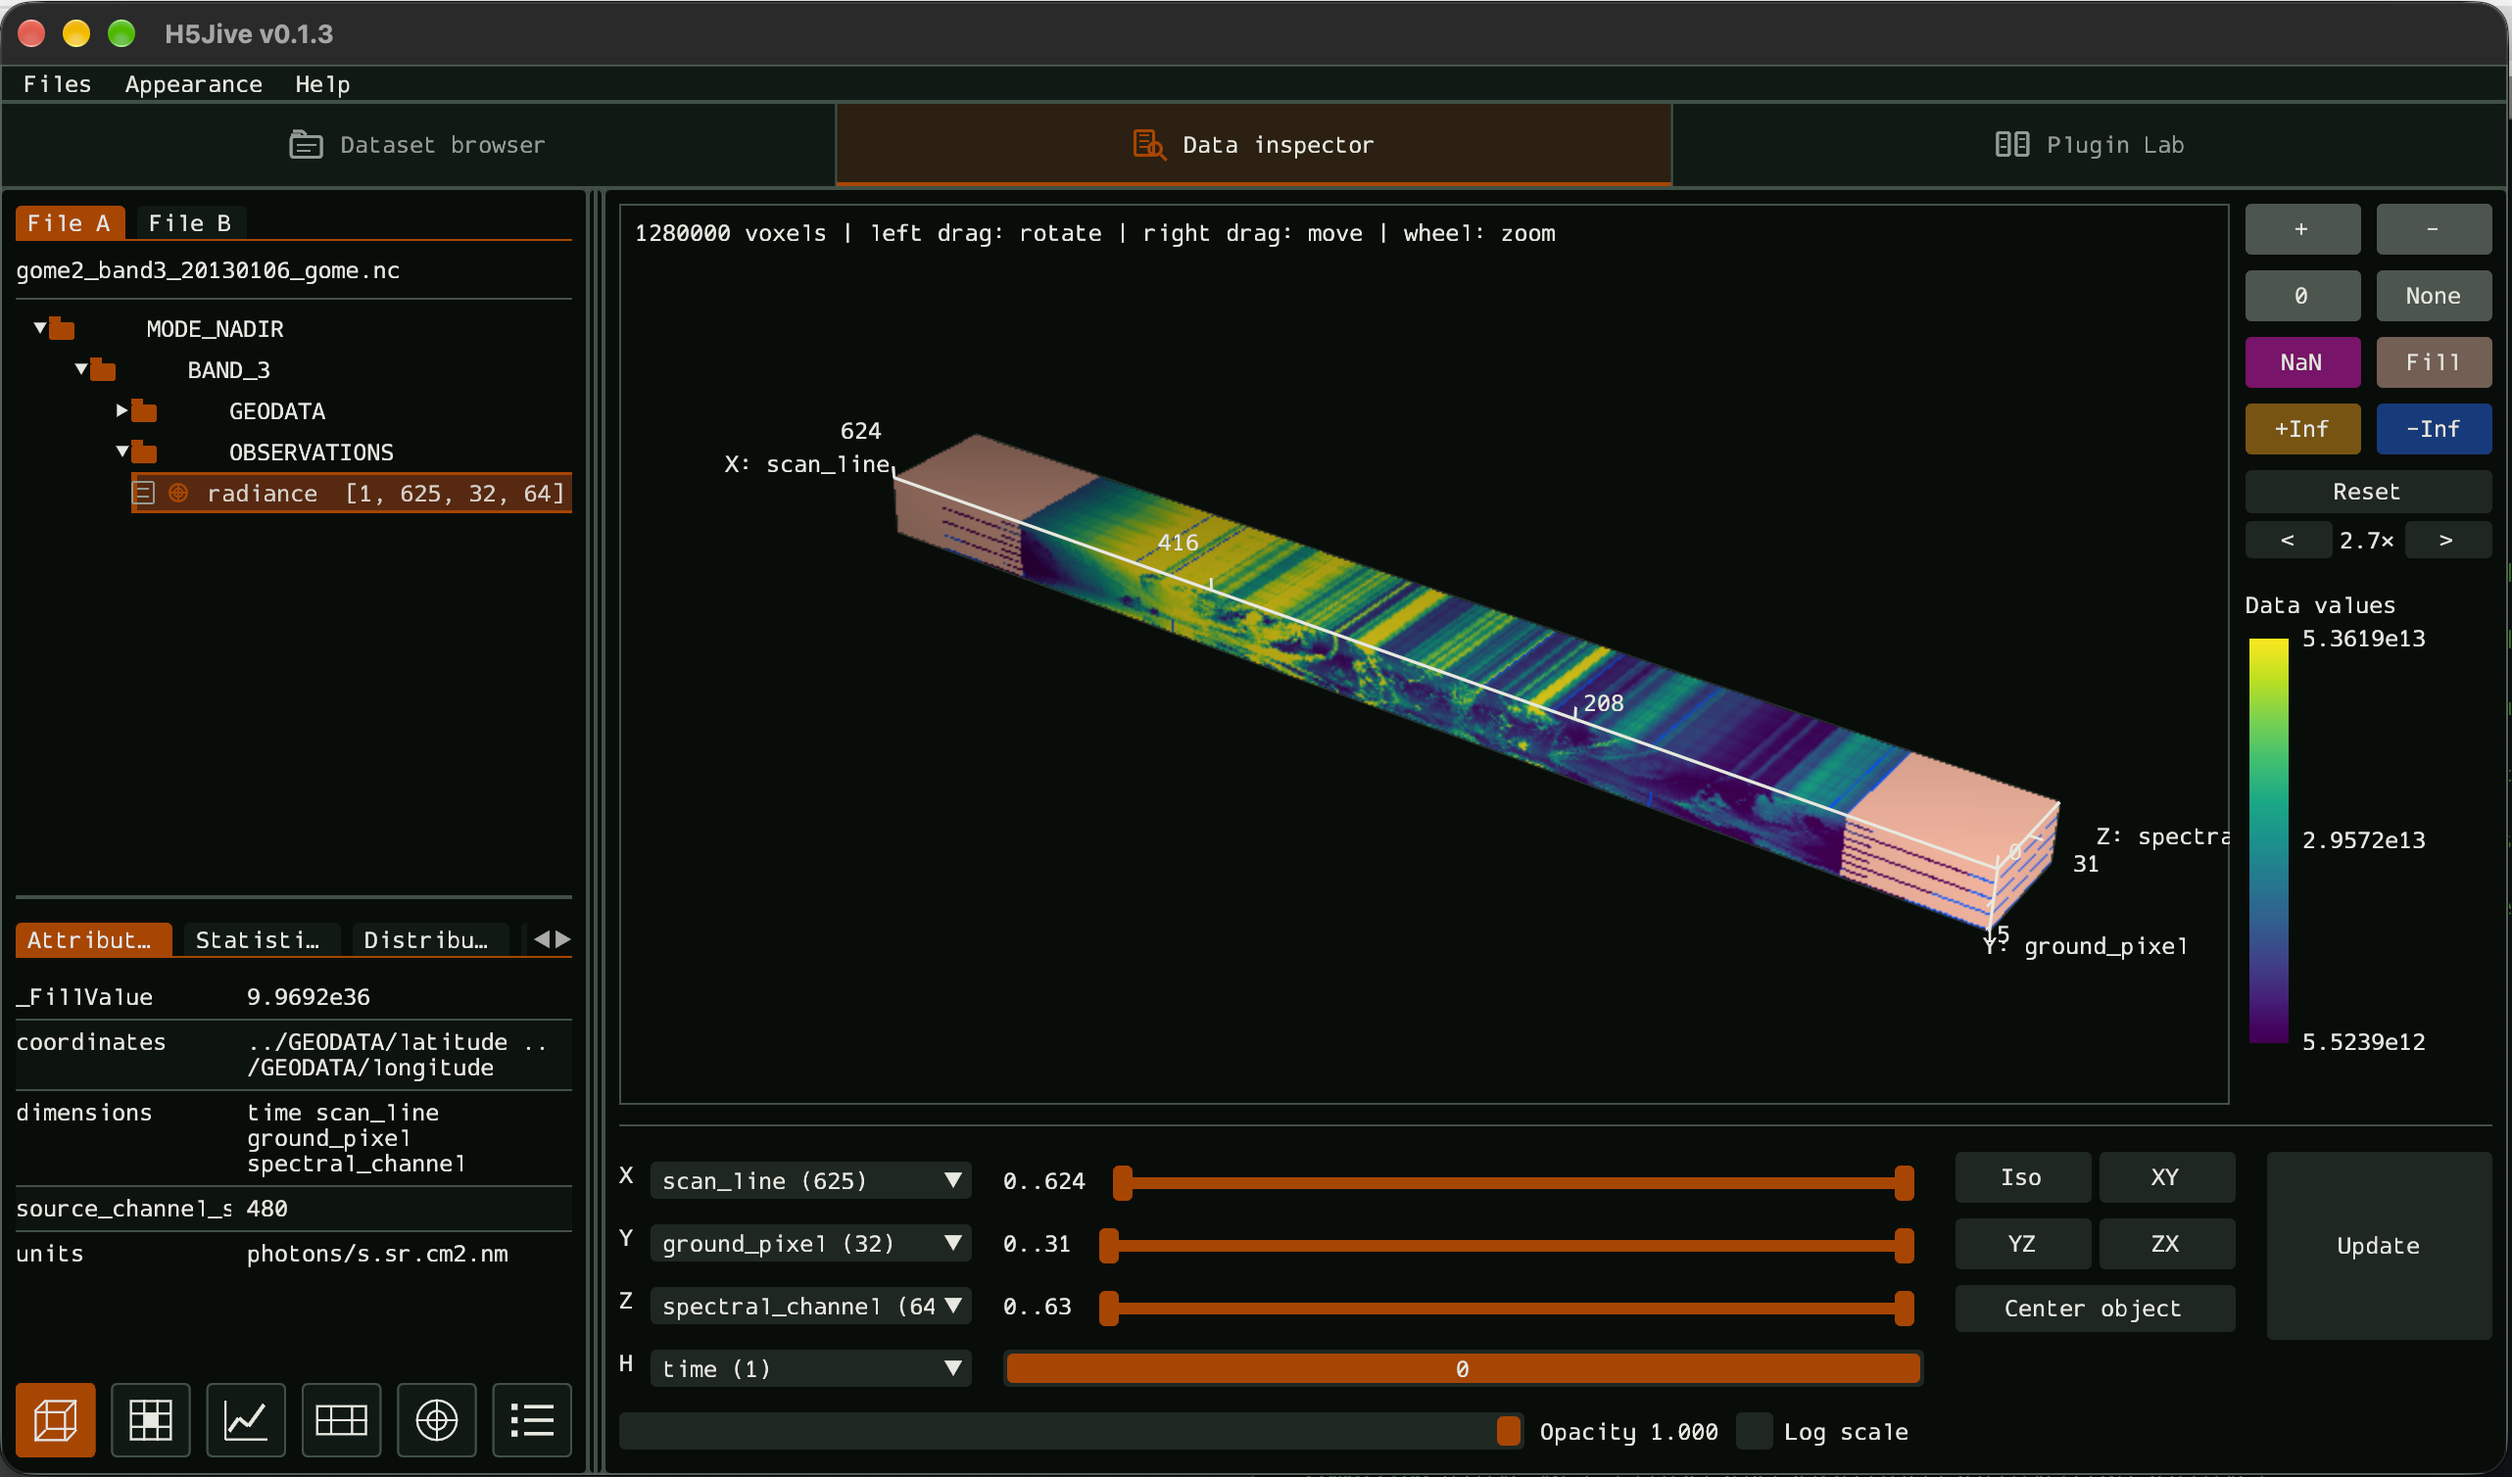
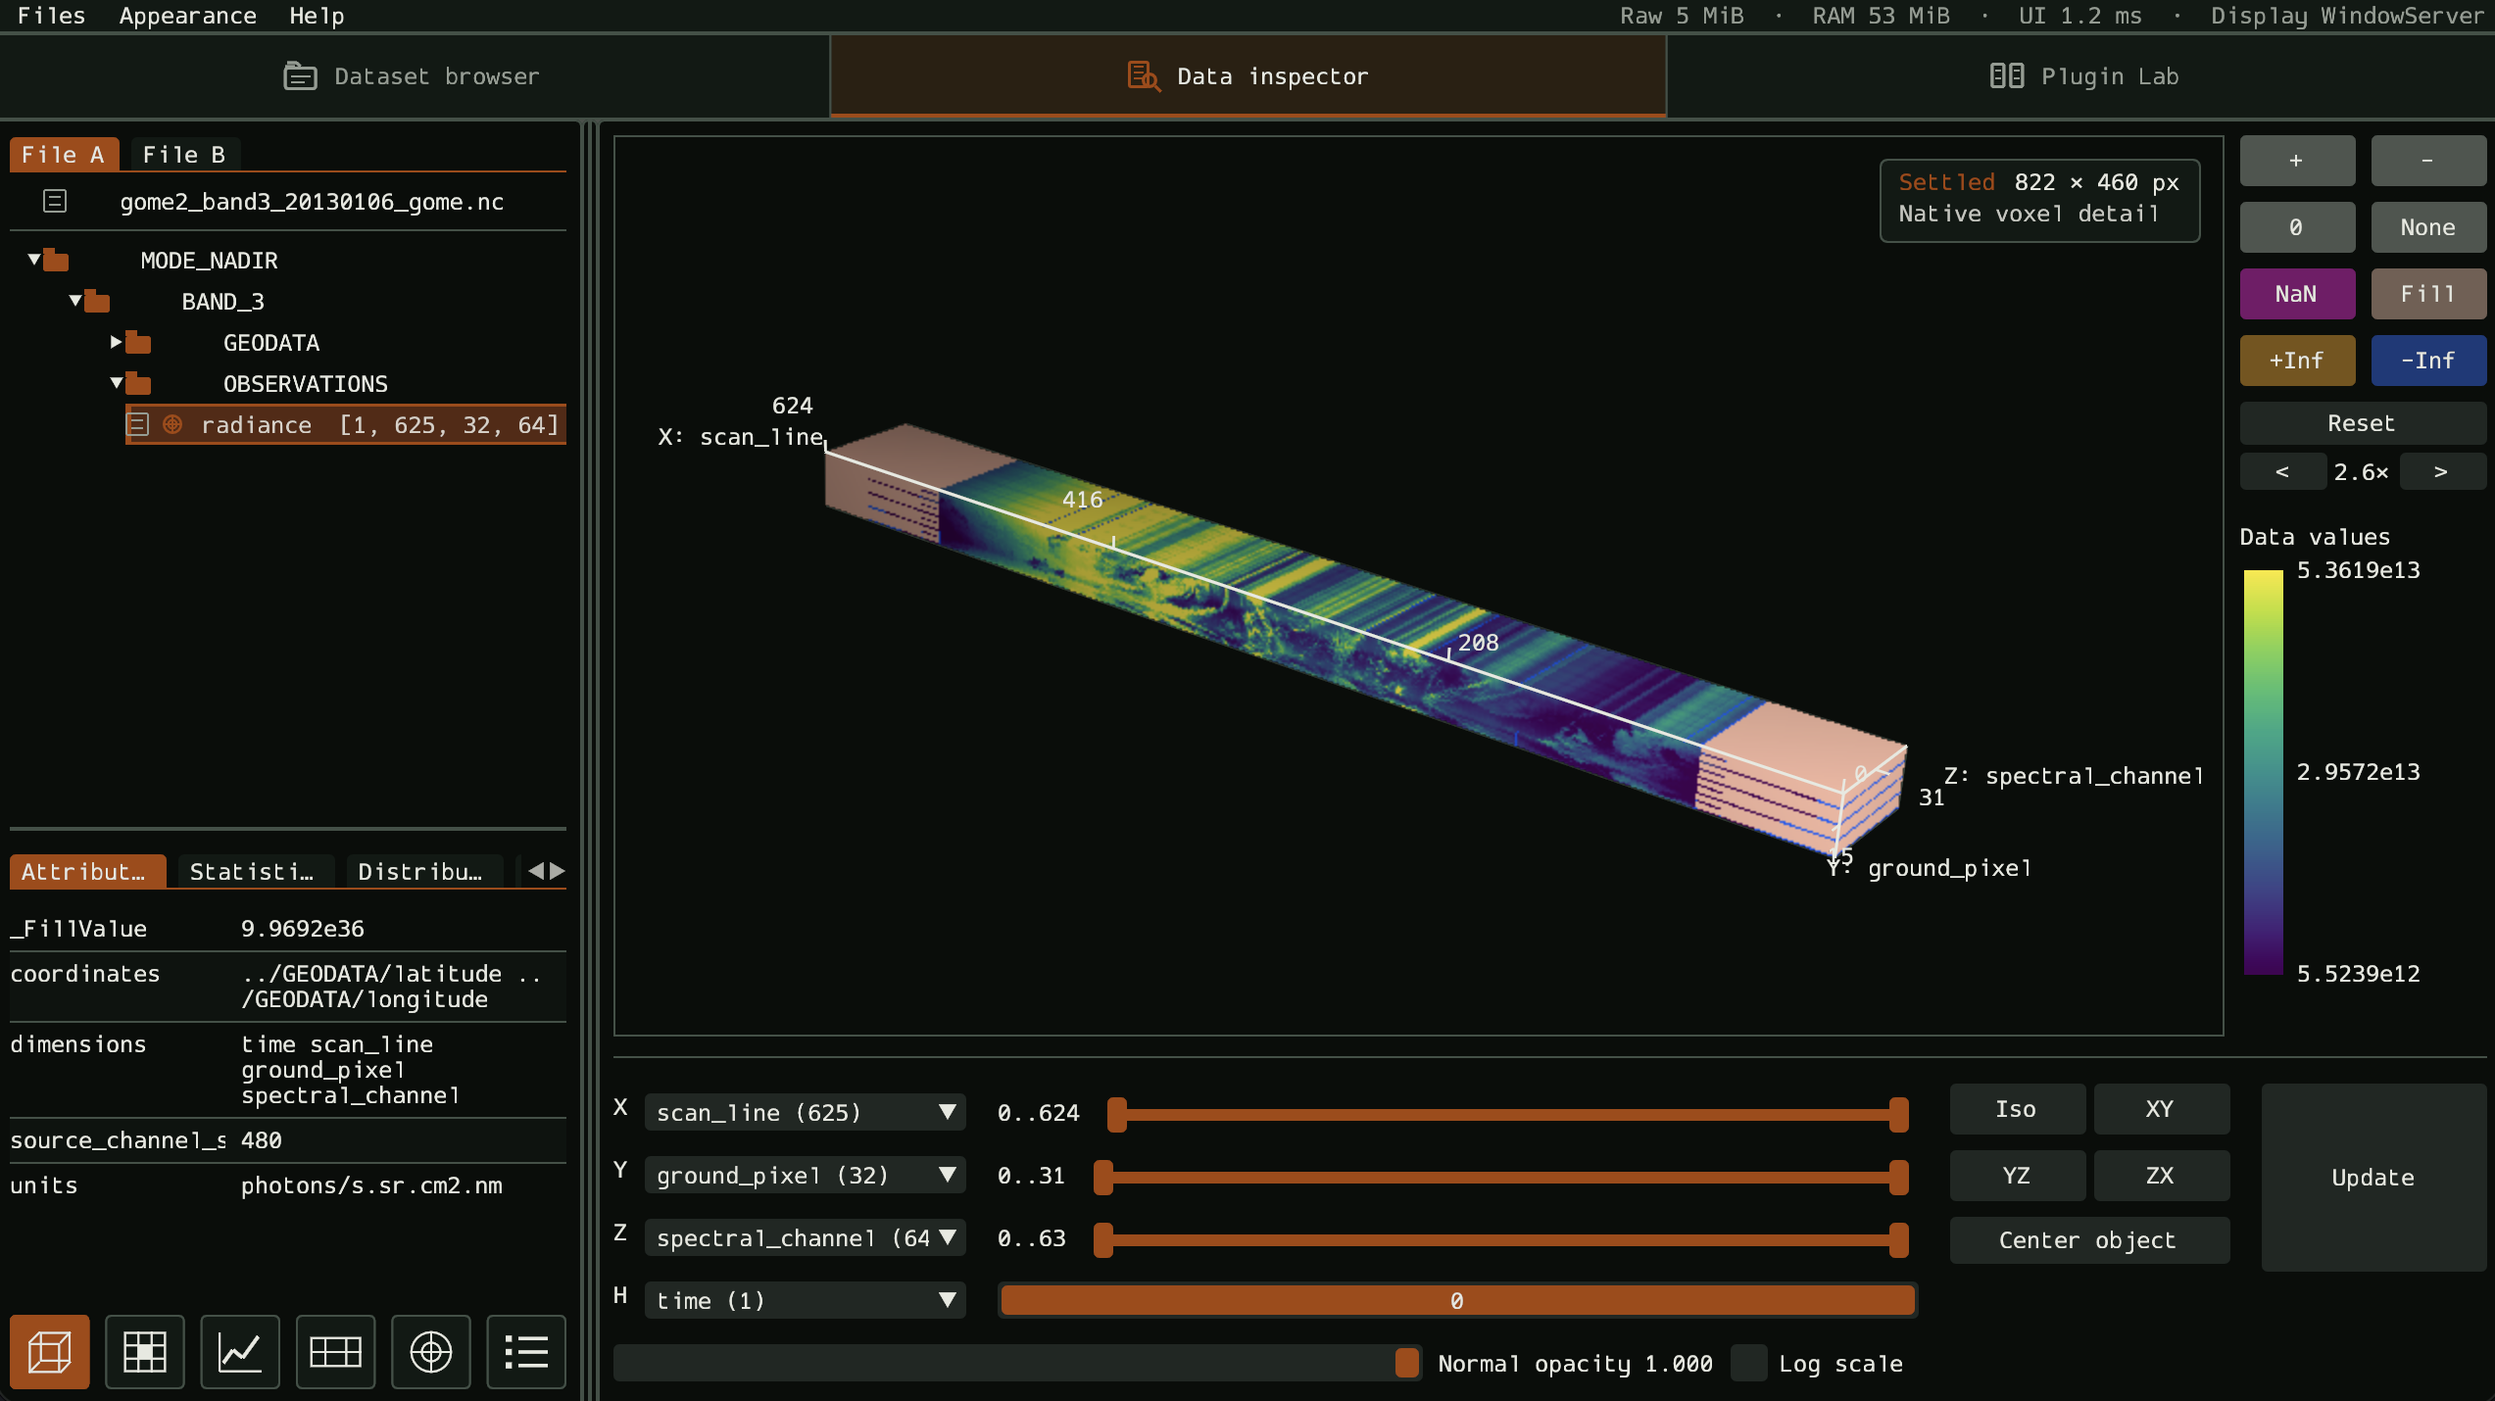
perform audit of the textual parts

Changed region(s): [[0.0, 0.0, 1.0, 1.0]]

diff --git a/website/src/data/views.ts b/website/src/data/views.ts
@@ -1,13 +1,13 @@
 export const viewPages = [
   {
     slug: '3d',
-    title: '3D volume',
+    title: '3D projection',
     kicker: 'Look inside the array',
     summary: 'Explore a numeric volume as voxels, with a perspective camera that makes its depth easier to read.',
-    image: 'view-3d-profile.png',
+    image: 'view-3d-volume.png',
     imageWidth: 2546,
     imageHeight: 1430,
-    alt: 'H5Jive showing a three-dimensional volume',
+    alt: 'H5Jive showing a three-dimensional projection',
     caption: 'SEE THE VOLUME IN THREE DIMENSIONS',
     points: [
       ['Shape the volume', 'Choose the three displayed axes, pin other dimensions, and narrow the index ranges to focus on a region.'],

diff --git a/crates/h5jive/src/app/layout.rs b/crates/h5jive/src/app/layout.rs
@@ -727,13 +727,13 @@ impl App {
                 && key.path == working.path
                 && key.slice.axes == working.slice.axes
         }) else {
-            return Some("3D volume");
+            return Some("3D projection");
         };
         Some(
             match volume_key_cells(working).cmp(&volume_key_cells(previous)) {
-                std::cmp::Ordering::Less => "3D volume (refining resolution)",
-                std::cmp::Ordering::Greater => "3D volume (reducing detail)",
-                std::cmp::Ordering::Equal => "3D region",
+                std::cmp::Ordering::Less => "3D projection (refining resolution)",
+                std::cmp::Ordering::Greater => "3D projection (reducing detail)",
+                std::cmp::Ordering::Equal => "3D projection region",
             },
         )
     }

diff --git a/crates/h5jive/src/app/volume_raycast.rs b/crates/h5jive/src/app/volume_raycast.rs
@@ -239,7 +239,7 @@ fn upload_volume_raster(
         return None;
     }
     let texture = gpu.device().create_texture(&wgpu::TextureDescriptor {
-        label: Some("Exact 3D volume ray cast"),
+        label: Some("Exact 3D projection ray cast"),
         size: wgpu::Extent3d {
             width,
             height,

diff --git a/examples/README.md b/examples/README.md
@@ -8,6 +8,7 @@ Examples are grouped by their purpose:
 | [`satellite/`](satellite/README.md) | GOME-2 NetCDF sample with a [data licence](satellite/LICENSE.md) |
 | [`plugins/path_comparison/`](plugins/path_comparison/) | A/B structure and metadata comparison demo |
 | [`plugins/value_comparison/`](plugins/value_comparison/) | Numeric arrays with known differences and ratios |
+| [`plugins/dataset_manipulation/`](plugins/dataset_manipulation/) | Reproducible slices and arithmetic operations |
 | [`plugins/spatiotemporal_subset/`](plugins/spatiotemporal_subset/README.md) | Synthetic North Sea swaths and a [real ERA5 sample](plugins/spatiotemporal_subset/era5/LICENSE.md) for NetCDF subsetting |
 
 Each plugin directory has its own README and generator command.

diff --git a/README.md b/README.md
@@ -12,7 +12,7 @@
 
 H5Jive is a native desktop explorer for HDF5 and NetCDF data. Browse local
 products, inspect dataset metadata and statistics, and view tables, profiles,
-2D slices, 3D volumes, and geolocated satellite swaths on a map or globe.
+2D slices, 3D projections, and geolocated satellite swaths on a map or globe.
 The Rust UI uses Dear ImGui. On Linux, H5Jive supports X11, including
 [SSH X11 forwarding](docs/src/getting-started.md#run-over-ssh-with-x11-forwarding)
 when the forwarded X server supports OpenGL.

diff --git a/docs/src/index.md b/docs/src/index.md
@@ -2,7 +2,7 @@
 
 H5Jive is a native desktop application for exploring scientific datasets.
 It combines a navigable file tree, dataset details, and linked views for tables,
-profiles, 2D slices, 3D volumes, and geolocated data.
+profiles, 2D slices, 3D projections, and geolocated data.
 
 Use this guide to install and run the application, inspect datasets, configure
 the viewer, or work on the Rust codebase. For project overview and current

diff --git a/contracts/README.md b/contracts/README.md
@@ -25,5 +25,5 @@ required by the ordinary test suite.
 - [Data table](data.md)
 - [1D profiles](profiles-1d.md)
 - [2D slice](slice-2d.md)
-- [3D volume](volume-3d.md)
+- [3D projection](volume-3d.md)
 - [World map and globe](geospatial.md)

diff --git a/contracts/volume-3d.md b/contracts/volume-3d.md
@@ -1,4 +1,4 @@
-# 3D volume contract
+# 3D projection contract
 
 - The axes, volume, range controls, and tooltips use the same selected slice,
   pinned index, camera, and coordinate system. Dragging to rotate updates the
